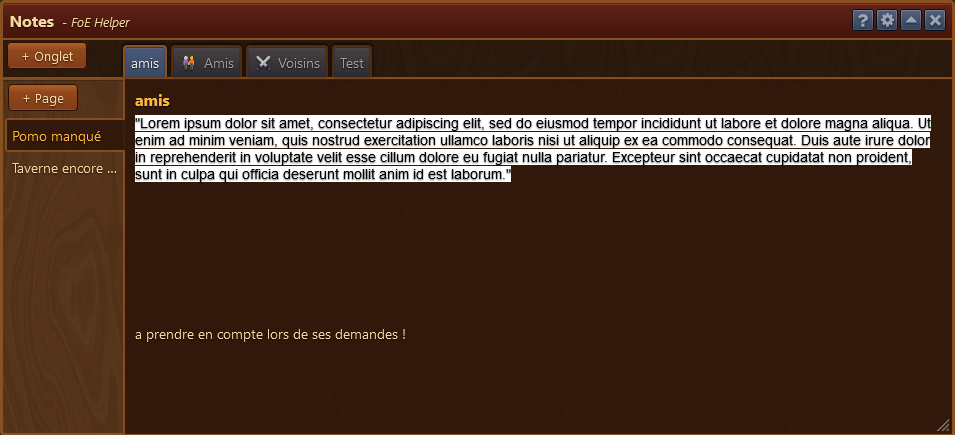
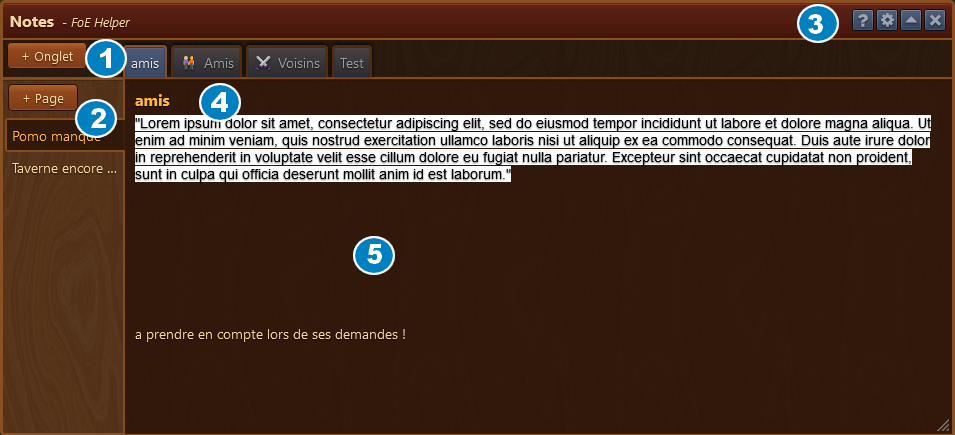
API-Token
Add API-token infos

diff --git a/fr/module/notes/README.md b/fr/module/notes/README.md
@@ -2,11 +2,23 @@
 
 ![Icône](./.images/icon.png)
 
-L'assistant Notes vous permet d'enregistrer des notes de manières très flexible.
+Notez tout ce dont vous avez besoin, trié en onglets et à nouveau en pages. De cette façon, vous pouvez documenter 
+votre jeu, même sur plusieurs appareils.
+
+<div data-gb-custom-block data-tag="hint" data-style='success'>
+Toutes les notes sont enregistrées via API sur le serveur foe-helper.com et sont donc enregistrées sur 
+tous les appareils sauf les téléphones mobiles
+</div>
 
 ## Structure
 
-![Structure](./.images/structure.png)
+![Structure](./.images/structure.png
+
+1. "Onglet" - commparable à une structure de catégorie
+2. "Page" - sous-catégorie des onglets
+3. "Paramètres" - ne fait sense que si des onglets et des pages sont disponibles
+4. Chaque pasge nécessite d'avoir un titre
+5. Contenu - clique et commence à écrire
 
 La fenêtre présente des onglets en horizontal et par onglet, des pages en vertical.
 

diff --git a/fr/guide/api-token.md b/fr/guide/api-token.md
@@ -1,0 +1,21 @@
+# Jeton API
+
+## Recevoir le Jeton
+Afin d'envoyer des données de l'extension à foe-helper.com, vous avez besoin d'un jeton API gratuit.
+Vous pouvez facilement copier ceci depuis votre profil.
+
+![Jeton API](./.images/Profile-token.png)
+
+<div data-gb-custom-block data-tag="hint" data-style='warning'>
+Veuillez noter que chaque monde nécessite son propre jeton. Vous avez donc besoin de votre propre jeton pour FR1, FR2 ou FR12..
+</div>
+
+## Déposer le jeton
+
+Vous pouvez désormais simplement stocker le jeton copié à partir du profil dans l'extension du monde approprié.
+
+![Jeton API (./.images/Jeton_Extension.png)
+
+<div data-gb-custom-block data-tag="hint" data-style='warning'>
+Encore une fois, faites attention à la sélection du bon monde !
+</div>

diff --git a/SUMMARY.md b/SUMMARY.md
@@ -135,6 +135,7 @@
 * [Site Web](fr/site_web/README.md)
   * [Planificateur de cité](fr/site_web/planificateur_cite/README.md)
 
+* [Jeton API](fr/guide/api-token.md)
 
 * [Aide](fr/guide/README.md)
   * [Github](fr/guide/github.md)
